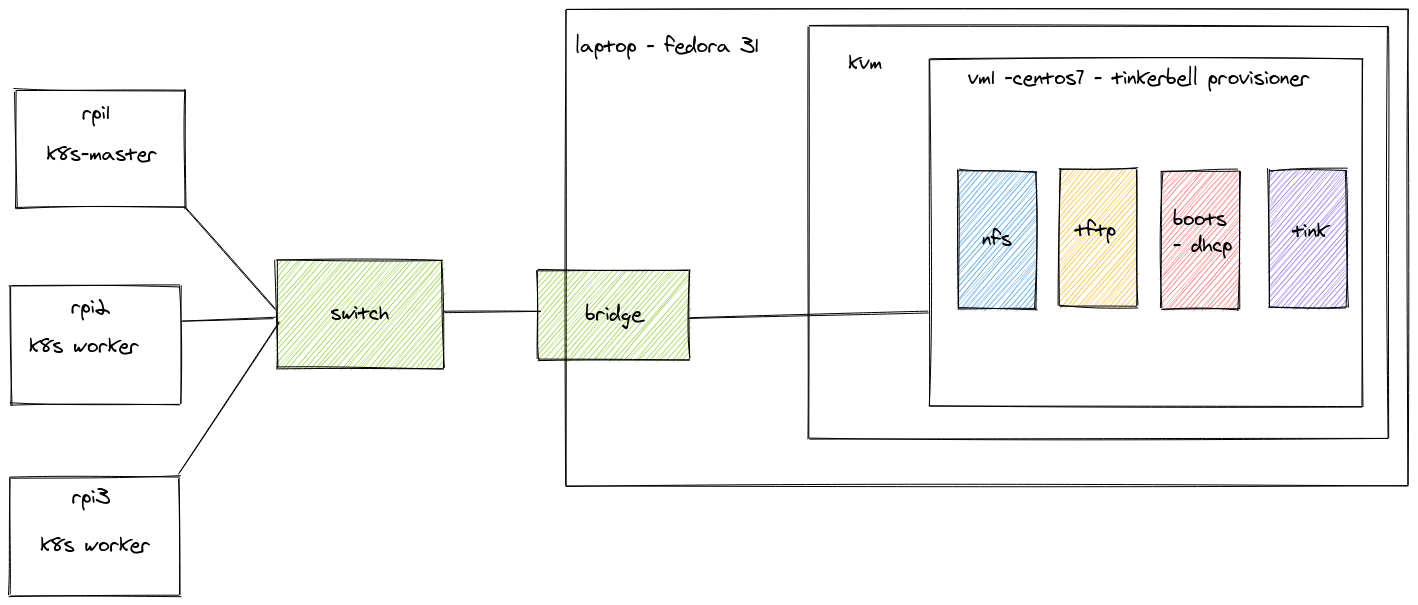
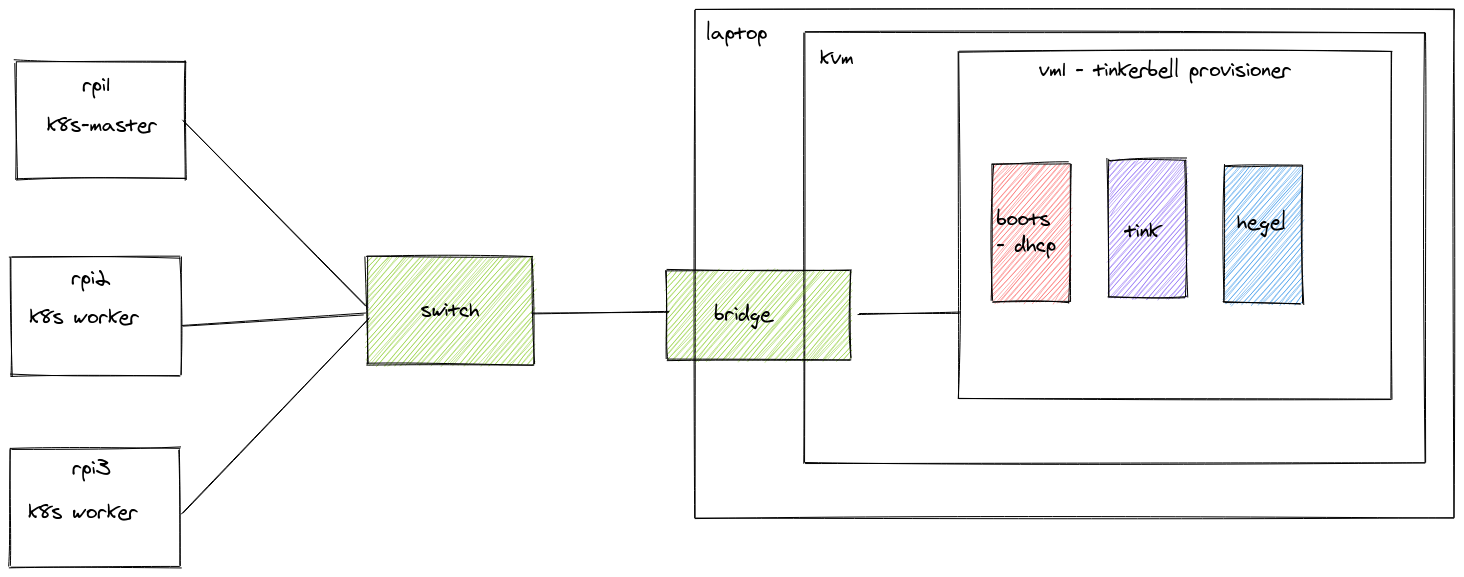
Rpi4 tinkerbell uefi (#1)
* adjusted instructions for rpi4 uefi

* added missing steps

diff --git a/README.md b/README.md
@@ -8,7 +8,7 @@ worker nodes on top of the raspberries pi version 4 (RPi4).
 Tinkerbell is engine for provisioning bare metal servers, it helps users to build fully bootable and
 operational machine from scratch. It can be used for any type of the machine from traditional 
 x86_64 servers to arm based single-board computers. This repository contains step by step instruction, how 
-leverage tinkerbell provisoning engine to build fully operational k8s cluster. It is assumed some familiarity 
+leverage tinkerbell provisioning engine to build fully operational k8s cluster. It is assumed some familiarity 
 with tinkerbell concepts in the below instruction. 
 
 ## Preparation:
@@ -40,7 +40,7 @@ request to virtual machine.
 
 #### Create virtual machine
 Ensure virtual machine is connected to the previously created bridge and it does not block traffic for http, https, dhcp, bootpc, tftp, nfs, mountd, rpc-bind.\
-On centos 7:  
+On centos 7 as root:  
 ```bash
 firewall-cmd --permanent --add-service nfs3
 firewall-cmd --permanent --add-service mountd
@@ -51,209 +51,44 @@ firewall-cmd --permanent --add-port 68/udp
 firewall-cmd --permanent --add-service http
 firewall-cmd --permanent --add-service https
 ```
+
+Optionally if you are planning on making provisioner a gateway for rpi4, configure NAT:
+```bash
+sysctl -w net.ipv4.ip_forward=1
+firewall-cmd --permanent --direct --passthrough ipv4 -t nat -I POSTROUTING -o eth0 -j MASQUERADE -s <rpi4 subnet>
+firewall-cmd --reload
+```
+
 #### Prepare raspberries pies
 Take them out of the box.
 
 ## Installation and configuration of the provisioner and RPi4
 ### Install tinkerbell
 Connect to the virtual machine and follow steps from https://tinkerbell.org/setup/packet/provisioner/ .
-At the end of installation, envrc file should be created, note its location.
-
-### Setup nfs and tftp
-Unfortunately the tinkerbell native method for provisioning os image won't work out of the box with the
-raspberries pies (version4), because they don't support fully yet the ipxe (https://github.com/pftf/RPi4 is missing firmware for the lan port). 
-So it is required to setup workaround for booting them and invoke tinkerbell workflow. The workaround consist of configuring them to
-boot using netboot and load their root filesystem from nfs server. Once loaded, the system will invoke the process responsible 
-for the workflow execution - workflow-helper. 
-
-Plan of execution:
-1. RPi boots and gets IP from boots
-1. RPi downloads firmware from tftp
-1. RPi mounts read-only nfs with
-docker and tinkerbell tooling (workflow-helper) preinstalled
-1. workflow-helper executes workflow in docker according
-to instructions from tink (workflow template)
-and communicates with hegel to gather necessary info
-
-Schema:
-
-![Alt text](img/tinkerbell-rpi-workaround.png "workaround plan")
-
-#### Configure nfs
-First step to enable netboot is to configure nfs server:
-1) Source `envrc` created during tinkerbell installation
-1) Ensure `unzip kpartx nfs-kernel-server nfs-utils xinetd tftp-server` are installed
-1) Create nfs mount point:
-     ```bash
-    mkdir -p /nfs/os
-    ```
-1) Download and unzip latest version of raspbian os, rename it for simplicity
-    ```bash
-    wget https://downloads.raspberrypi.org/raspbian_lite_latest
-    unzip raspbian_latest && mv *-raspbian-buster-lite.img raspbian-buster-lite.img
-    ```
-1) Mount image partitions as loop devices
-    ```bash
-    kpartx -a -v raspbian-buster-lite.img
-    mkdir p1 p2
-    mount /dev/mapper/loop0p2 p2/ && mount /dev/mapper/loop0p1 p1/
-    ```
-1) Copy content of the image to nfs mount point
-    ```bash
-    cp -rf p2/* /nfs/os
-    cp -rf p1/* /nfs/os/boot
-    umount p2 p1
-    ```
- 1) Download upstream firmware and replace the old one
-     ```bash
-    rm /nfs/os/boot/start4.elf && rm /nfs/os/boot/fixup4.dat
-    wget https://github.com/Hexxeh/rpi-firmware/raw/master/start4.elf && wget https://github.com/Hexxeh/rpi-firmware/raw/master/fixup4.dat
-    mv start4.elf fixup4.elf /nfs/os/boot/
-    ```
- 1) Populate `provisioner/nfs/boot/cmdline.txt` with appropriate data and replace `cmdline.txt`  from `/nfs/os/boot` with it.
-    ```bash
-     cat provisioner/nfs/boot/cmdline.txt | envsubst > /nfs/os/boot/cmdline.txt
-     ``` 
- 1) Copy files from `provisioner/nfs/{bin,etc,lib/systemd/system}`to corresponding locations:
-    ```bash
-    cp -f provisioner/nfs/bin/* /nfs/os/bin/
-    cp -f provisioner/nfs/etc/* /nfs/os/etc/
-    cp -f provisioner/nfs/lib/systemd/system/* /nfs/os/lib/systemd/system
-    ```  
- 1) Enable ssh at the boot time: `touch /nfs/os/boot/ssh`  
- 1) Export os directory
-    ```bash
-    echo '/nfs/os *(rw,sync,no_subtree_check,no_root_squash)' >> /etc/exports
-    ```
-#### Configure tftp
-The next step is to configure tftp server:
-1) Source `envrc` created during tinkerbell installation
-1) Relax SELinux policy for tftp service
-    ```bash
-    setsebool -P tftp_home_dir 1
-    ```
-1) Create directory to serve from:
-    ```bash
-    mkdir /tftp
-    ```    
-1) Modify tftp server configuration to bind to the specific interface and set directory. Unfortunately the 
-tinkerbell builtin tftp service is unable to handle files requested by RPi4, so in order to work around this, 
-we need to setup another tftp server next to boots. We must ensure that it does not listen on the same ip address,
-because it won't even start in that case, so in the configuration we should explicitly bind it to the 2nd ip address of 
-the interface used by tinkerbell. Tinkerbell during its setup adds another ip which is used by nginx service, we will reuse
-it for tftp server as well.\
-Modify `/etc/xinetd.d/tftp`:
-    ```bash
-   cat << EOF | envsubst > /etc/xinetd.d/tftp
-    service tftp
-    {
-            socket_type             = dgram
-            protocol                = udp
-            wait                    = yes
-            user                    = root
-            server                  = /usr/sbin/in.tftpd
-            bind                    = ${TINKERBELL_NGINX_IP}
-            server_args             = -v -v -s /tftp
-            disable                 = no
-            per_source              = 11
-            cps                     = 100 2
-            flags                   = IPv4
-    }
-   EOF
-    ```
- 
-#### Enable both services
-Execute: 
+At the end of installation, `envrc` file should be created, note its location.\
+Replace `vmlinuz-aarch64` and `initramfs-aarch64` with the ones from:
 ```bash
-systemctl enable xinetd rpc-bind nfs-server
-systemct restart xinetd rpc-bind nfs-server
-```  
+wget -O /var/tinkerbell/nginx/misc/osie/current/vmlinuz-aarch64  https://storage.googleapis.com/rpi4-uefi-tinkerbell/vmlinuz-aarch64
+wget -O /var/tinkerbell/nginx/misc/osie/current/initramfs-aarch64 https://storage.googleapis.com/rpi4-uefi-tinkerbell/initramfs-aarch64
+```
+
+It is a custom build kernel and initramfs for rpi4 to execute a workflow. The difference from the standard osie, is that workflow
+is directly executed in the initramfs stage. The kernel was build to execute workflow contained in this repository, it is possible
+it won't work with other workflows.
    
 ### Raspberry Pi
 
-Next step, before we start nfs and tftp services is to actually configure raspberries pies to boot fron the
-network. 
-1) Install raspbian os on sd card and plug it into your raspberry pi. 
-1) Once booted, connect to it as root and go to `/lib/firmware/raspberrypi/bootloader/stable/`
-1) Create boot configuration file, remember to replace `TFTP_IP` with correct ip address (`${TINKERBELL_NGINX_IP}`) created in the previous step:
-    ```bash
-    cat <<EOF > bootconf.cfg
-    [all]
-    BOOT_UART=0
-    WAKE_ON_GPIO=1
-    POWER_OFF_ON_HALT=0
-    DHCP_TIMEOUT=45000
-    DHCP_REQ_TIMEOUT=4000
-    TFTP_FILE_TIMEOUT=30000
-    TFTP_IP=${TINKERBELL_NGINX_IP}
-    TFTP_PREFIX=0
-    BOOT_ORDER=0x21
-    SD_BOOT_MAX_RETRIES=3
-    NET_BOOT_MAX_RETRIES=5
-    [none]
-    FREEZE_VERSION=0
-    EOF
-    ```
-1) Create new boot image using the most recent boot image available in the stable directory:
-    ```bash
-    rpi-eeprom-config --out netboot-pieeprom.bin --config bootconf.cfg pieeprom-2020-04-16.bin
-    ```
-    **Note:** adjust pieeprom date accordingly to the content of the beta directory
-1) Flash eeprom with the new boot image:
-    ```bash
-    rpi-eeprom-update -d -f netboot-pieeprom.bin
-    ```
-1) Take note of the RPi4 serial number (especially the last 8 characters) and mac address, it will be used in the next steps: 
-    ```bash
-    serial=$(cat /proc/cpuinfo | grep Serial | cut -d ' ' -f 2) && mac=$(ip link show dev eth0 | grep ether | awk '{print $2}'); 
-    printf "serial: %s\nmac: %s\n" ${serial: -8} ${mac}
-    ```
-1) Repeat above steps for all your RPies.
-1) In one of the raspberries pies, connect it to the internet and do the following:
-    1) Mount the earlier created nfs directory
-        ```bash
-        mount -t nfs ${TINKERBELL_HOST_IP}:/nfs/os /mnt
-        ```
-    1) Chroot into it and mount all partitions:
-        ```bash
-        cd /mnt && chroot `pwd` /bin/bash && mount -a
-        ```
-    1) Download and install docker, jq, wget, curl 
-        ```bash
-        apt-get update && apt-get install -y curl wget jq && curl -sSL https://get.docker.com | sh
-        ```
-     1) Enable required services and disable unneeded one:
-        ```bash
-        systemctl enable docker workflow-helper sshd wpa_supplicant 
-        systemctl disable bluetooth       
-        ```
-     1) Exit `chroot` and `umount /mnt`
-     1) Optionally configure wifi:
-        ```bash
-        cp /etc/wpa_supplicant/wpa_supplicant.conf /mnt/etc/wpa_supplicant/wpa_supplicant.conf
-        ```  
-      
-1) If you plan on using the same sd card during workflow execution, ensure to destroy partition table:
-    ```bash
-    dd if=/dev/zero of=/dev/mmcblk0 bs=1M count=1
-    ```
-   It is required to do this, because otherwise raspberry pi will boot from sd card first and not from network.
-   If not eject sd card and inject empty one.
-1) Turn off RPi4.
+Install rpi4 uefi (https://rpi4-uefi.dev/) onto sd card,  use the prepared image:
 
-### Final step
-1) In the tftp directory, create directories with RPi serial numbers:
-    ```bash
-    mkdir -p /tftp/<RPi serial number>
-    ```
-1) Mount-bind the required boot files to created directories:
-    ```bash
-    cd /tftp/; for i in `ls`; do mount -o bind /nfs/os/boot /tftp/$i; done ;cd -
-    ```
-   **Note:** If you want to persist mounts across reboots, update /etc/fstab: 
-   ```bash
-    echo "/nfs/os/boot /tftp/<rpi serial number> none defaults,bind 0 0" >> /etc/fstab
-    ```
+```bash
+wget -O rpi4-uefi.img https://storage.googleapis.com/rpi4-uefi-tinkerbell/rpi4-uefi.img
+dd if=worker/rpi4-uefi.img of=/dev/mmcblk0 #replace it according to your sd card device
+```
+
+When booting rpi4 for the first time you have to change boot order to boot from pxe.
+
+ **Note:** If you decide to use upstream rpi4-uefi image, make sure that it is using `device tree`. The option in 
+ question can be found in the uefi menu under: `Device Manager` → `Raspberry Pi Configuration` → `Advanced Configuration`
  
  ## Configure workflows
  Workflow is a set of task which are executed in order and are used to configure the bare metal machine. 
@@ -281,7 +116,7 @@ Next follow instructions from workflow directory.
 1) Source `envrc`
 1) Register raspberries pies hardware in tinkerbell
     ```bash
-    cat templates/hw.json | envsubst UUID="$(uuidgen)" IP="<desired ip>" MASK="255.255.255.0" MAC="<mac of RPi>" HOSTNAME="<desire hostname>" > device.json
+    cat templates/hw.json | envsubst UUID="$(uuidgen)" IP="<desired ip>" MASK="255.255.255.0" GW="<desired gw ip>" MAC="<mac of RPi>" HOSTNAME="<desire hostname>" > device.json
     docker cp device.json deploy_tink-cli_1:/root
     docker exec -ti deploy_tink-cli_1 tink hardware push --file /root/device.json
     ```
@@ -295,6 +130,9 @@ Next follow instructions from workflow directory.
     {"id": "9f26de7a-3149-4833-a453-8a73e95a1d53", "arch": "aarch64", "hostname": "worker-2", "allow_pxe": true, "ip_addresses": [{"address": "192.168.2.37", "netmask": "255.255.255.0", "address
     _family": 4}], "network_ports": [{"data": {"mac": "dc:a6:32:7a:29:e1"}, "name": "eth0", "type": "data"}], "allow_workflow": true}
    ````
+   
+   **Note:** `"facility_code": "onprem initrd=initramfs-aarch64 #"` is a workaround to disable `console` and to ensure proper boot of kernel. 
+   We are leveraging the absence of sanity check in the `boots` component: https://github.com/tinkerbell/boots/blob/master/installers/osie/main.go#L90 .
 
 1) Create templates
     ```bash
